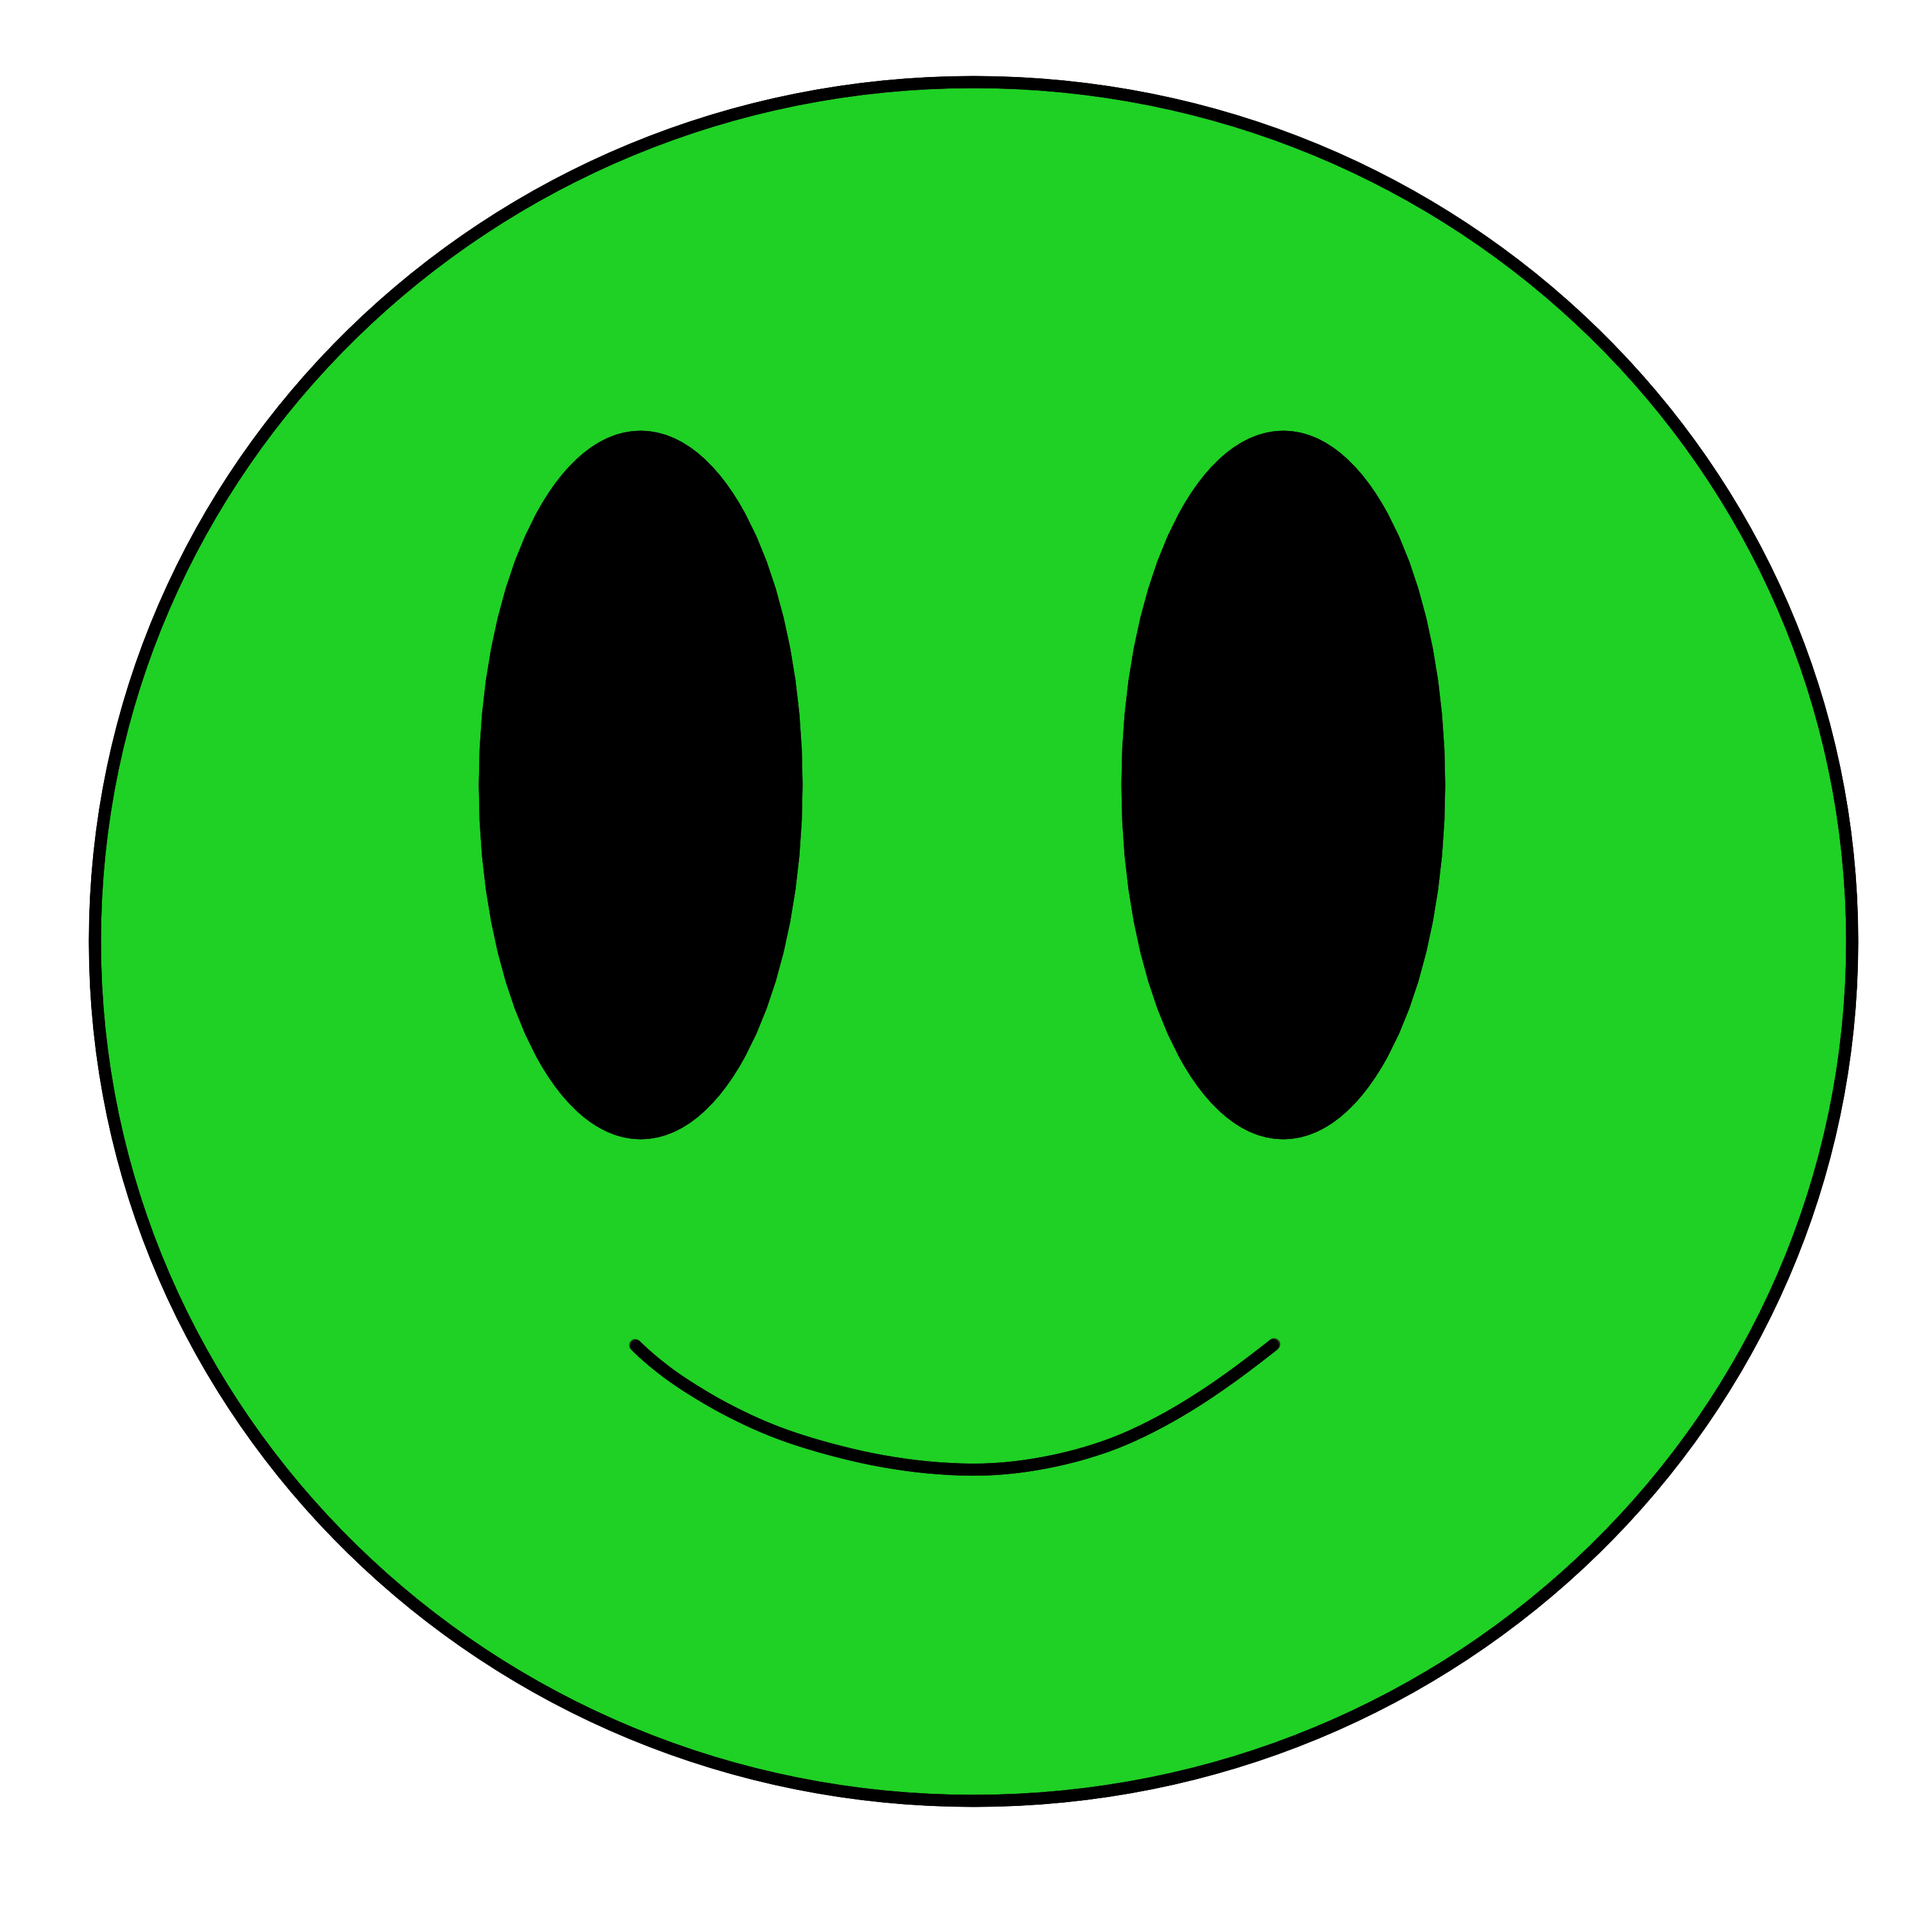
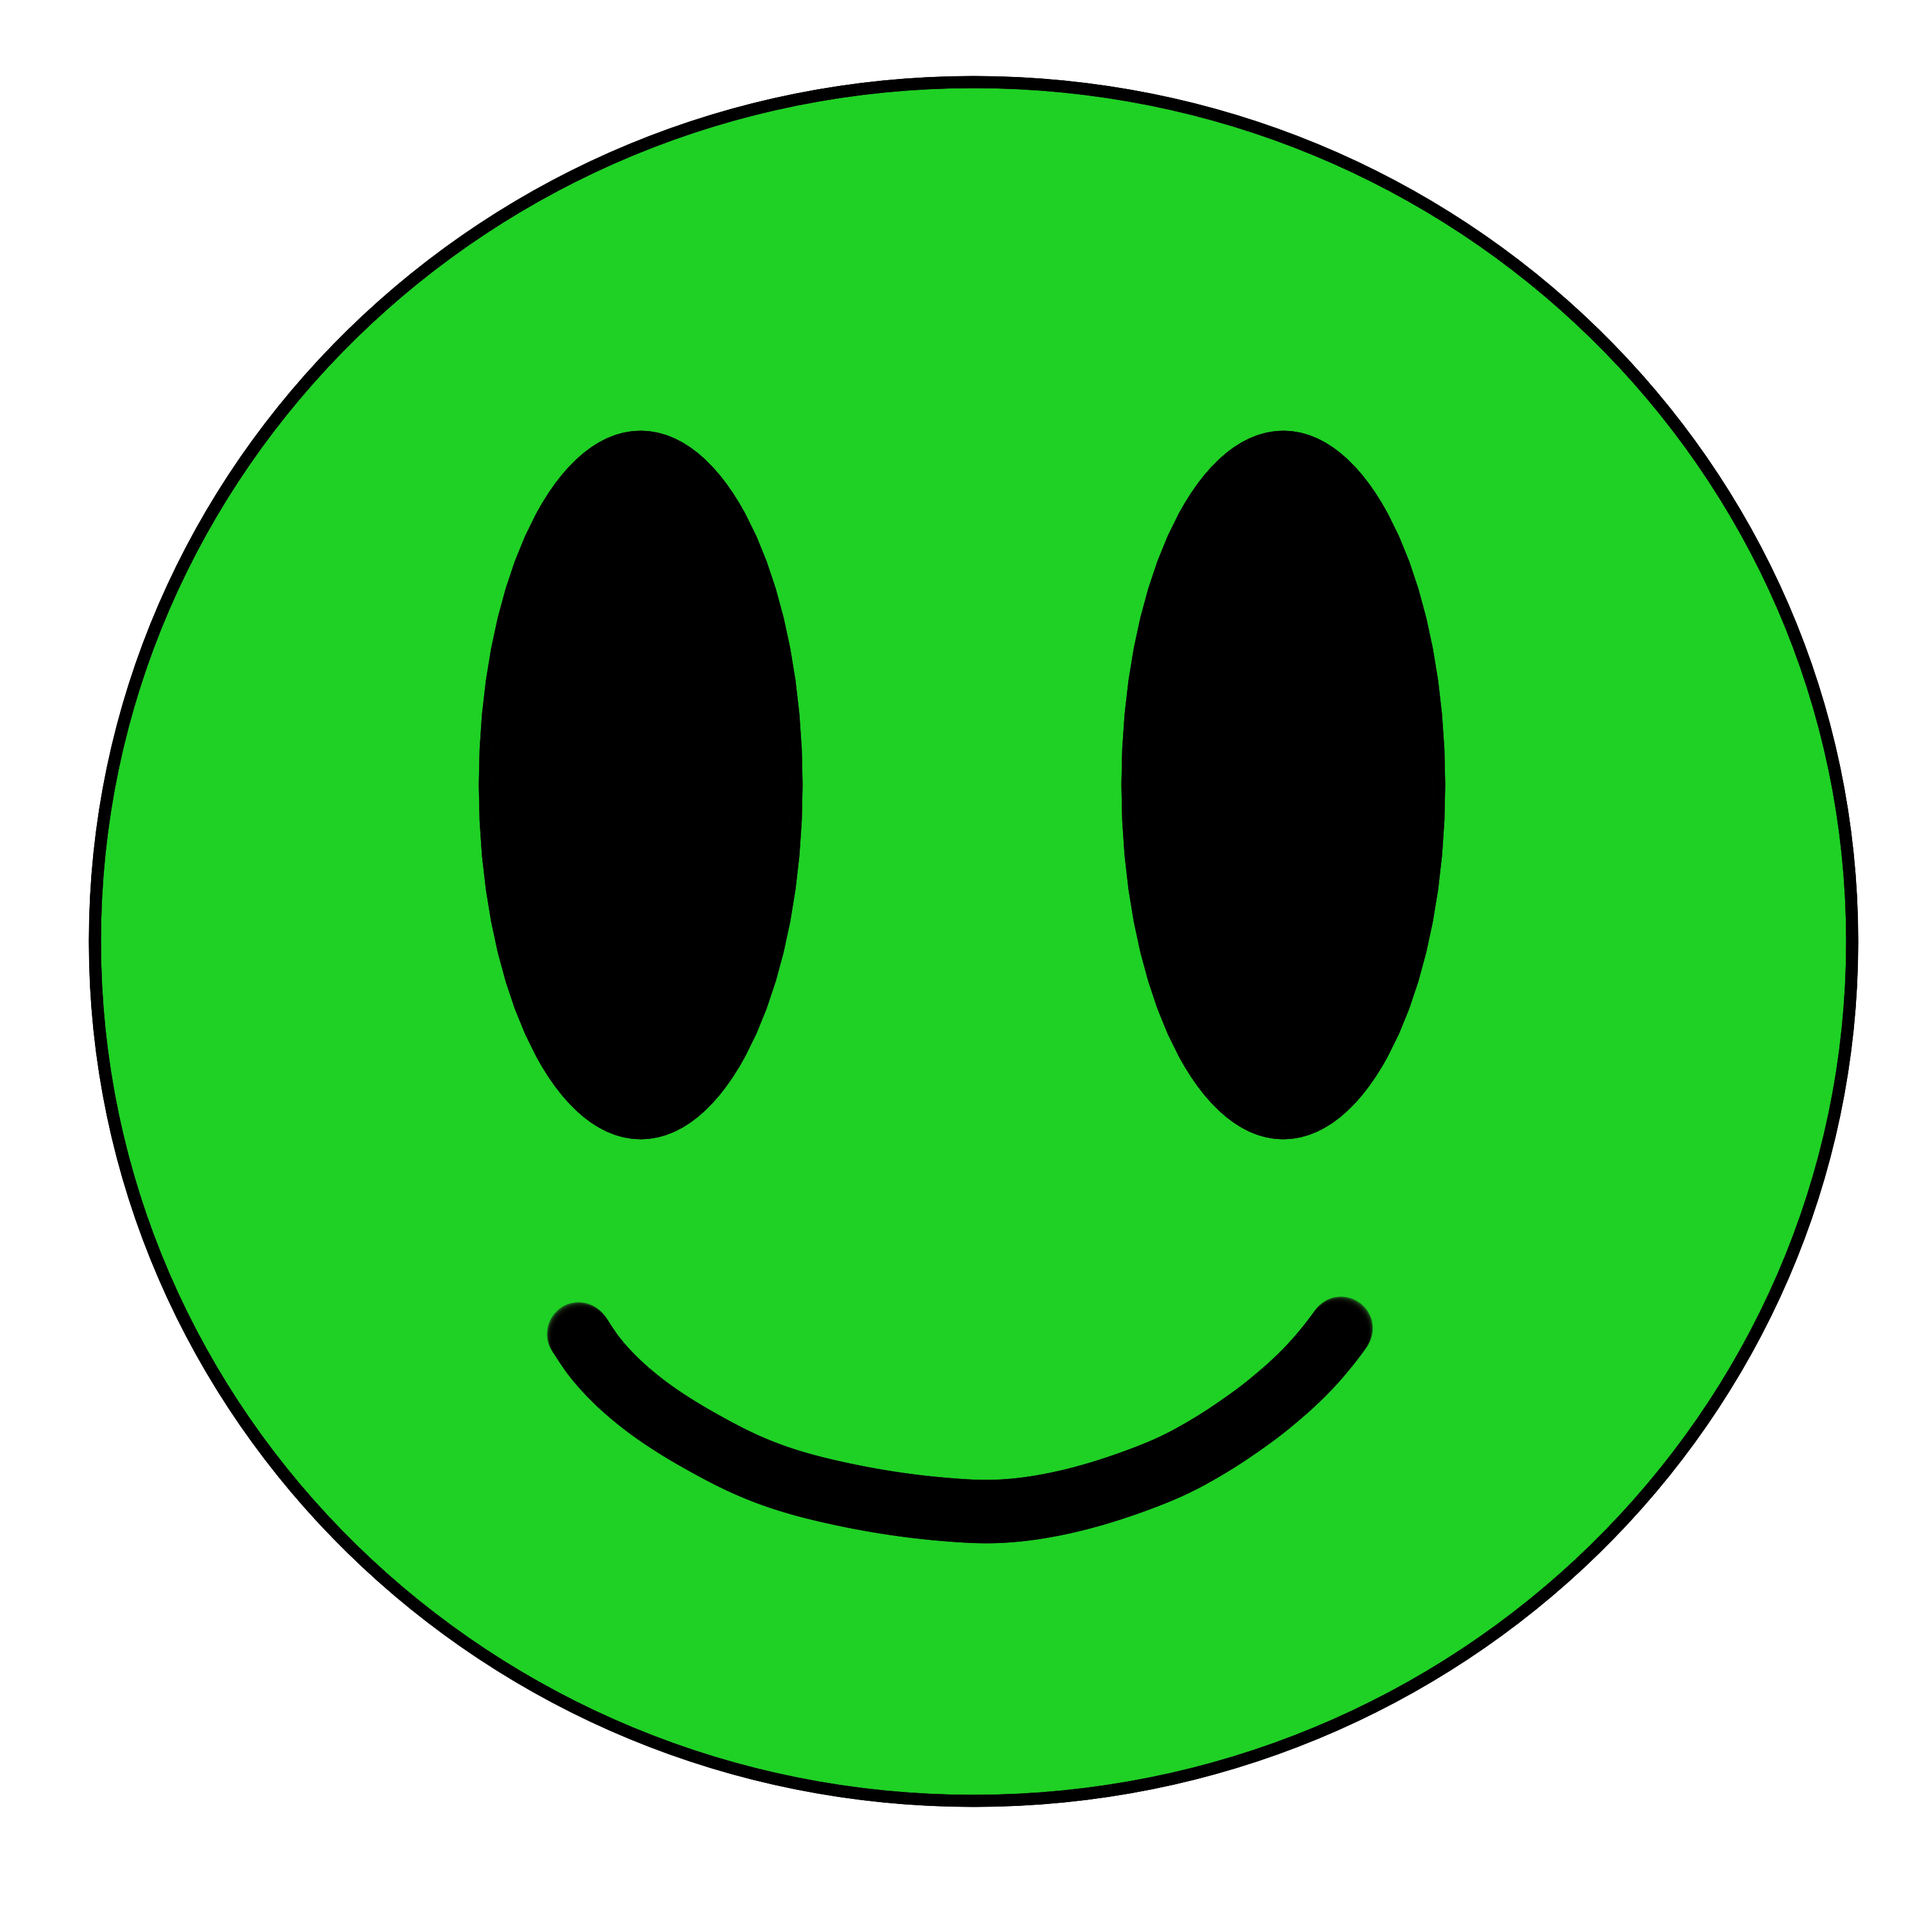
added new emoji sprites and preference sprites

Changed region(s): [[0.279, 0.651, 0.713, 0.806]]

diff --git a/Assets/Scenes/JohnJohn/Scripts/options.cs b/Assets/Scenes/JohnJohn/Scripts/options.cs
@@ -23,7 +23,7 @@ public class Options : MonoBehaviour
 
     [SerializeField] private UnityEngine.UI.Slider SFXSlider;
 
-    Resolution[] resolutions;
+    
 
 
     public void SetVolume()
